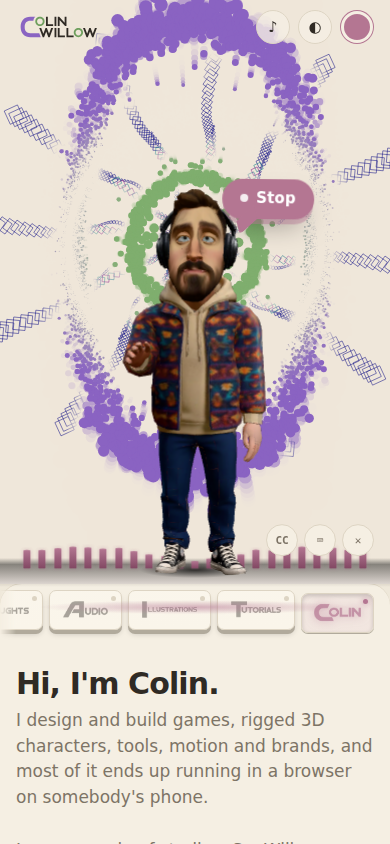
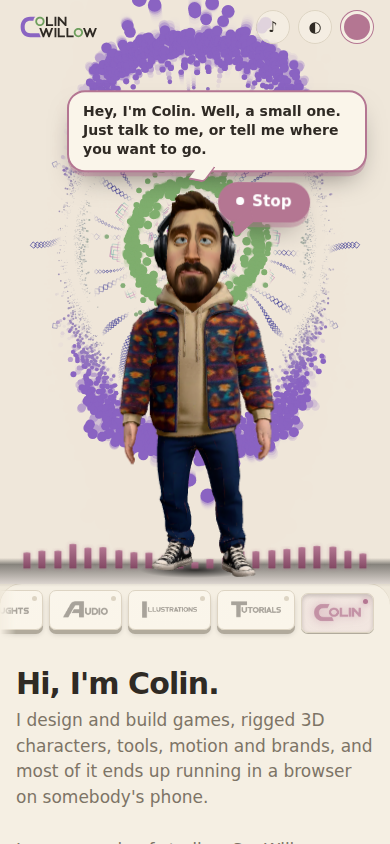
About stage: no CC/keyboard/close row (Stop is the control); his captions are a speech bubble above his head in the Talk bubble's style, your words shown dimmer in the same place
Claude-Session: https://claude.ai/code/session_01McRD2PT414eMdAMdSUCz7Q

diff --git a/site/colin.js b/site/colin.js
@@ -408,9 +408,10 @@ export function createMiniColin({ go, known, items, pageOf }) {
   const log = (who, text) => { const p = document.createElement('p'); p.className = who; p.textContent = text;
     logEl.appendChild(p); while (logEl.children.length > 10) logEl.firstChild.remove(); logEl.scrollTop = 1e6; return p; };
   let capT = 0;
-  const caption = (text, force = false) => {
-    if (!cc && !force) return;
-    cap.textContent = text; cap.hidden = !text; clearTimeout(capT);
+  // on the stage the captions ARE his speech bubble (always on, no CC toggle there); on the strip, CC as before
+  const caption = (text, force = false, you = false) => {
+    if (!cc && !force && !dock.classList.contains('hero')) return;
+    cap.textContent = text; cap.hidden = !text; cap.classList.toggle('you', you); clearTimeout(capT);
     if (text) capT = setTimeout(() => { if (state !== 'speaking') cap.hidden = true; }, 6000);
   };
 
@@ -428,6 +429,14 @@ export function createMiniColin({ go, known, items, pageOf }) {
   (function eqFrame(now) {
     requestAnimationFrame(eqFrame);
     if (state === 'off' || !dock.classList.contains('hero')) { if (eqE) { eqE = 0; eqBars.forEach(b => b.style.transform = 'scaleY(0)'); } return; }
+    // the caption bubble rides above his head (the Stop bubble is beside it), kept on screen
+    if (!cap.hidden) { const h = headScreen(), par = cap.offsetParent;
+      if (h && par) { const pr = par.getBoundingClientRect(), w = cap.offsetWidth, ht = cap.offsetHeight;
+        cap.style.left = Math.max(8, Math.min(pr.width - w - 8, h.x - pr.left - w * 0.42)).toFixed(1) + 'px';
+        let top = h.y - pr.top - h.h * 0.17 - ht;
+        const sb = document.querySelector('.about-talk')?.getBoundingClientRect();   // stack above the Stop bubble, never under it
+        if (sb?.height) top = Math.min(top, sb.top - pr.top - ht - 10);
+        cap.style.top = Math.max(64 - pr.top, top).toFixed(1) + 'px'; } }   // (it may rise above the stage box, to just under the top bar)
     if (state === 'speaking' && now > eqNext) { eqKick(0.45 + Math.random() * 0.55); eqNext = now + 70 + Math.random() * 120; }
     const floor = state === 'listening' ? 0.24 : state === 'thinking' ? 0.16 + 0.1 * Math.sin(now / 180) : 0.1;
     eqE = Math.max(floor, eqE * 0.93);
@@ -522,7 +531,7 @@ export function createMiniColin({ go, known, items, pageOf }) {
     rec.onresult = ev => {
       const was = heard; heard = [...ev.results].map(r => r[0].transcript).join(' ').trim();
       if (heard !== was) eqKick(0.55 + Math.min(0.45, (heard.length - was.length) * 0.06));   // the bars jump as your words come in
-      if (cc) caption('“' + heard + '”');
+      if (cc || dock.classList.contains('hero')) caption('“' + heard + '”', false, true);
       clearTimeout(gapT);
       gapT = setTimeout(() => { const h = heard; if (h) ask(h); }, 750);
     };

diff --git a/site/style.css b/site/style.css
@@ -363,7 +363,13 @@ body.swarm.at-home .shelf-figures { background: linear-gradient(to bottom, trans
 #mini.hero { position: static; width: 100%; height: 100%; pointer-events: none; align-items: center; justify-content: flex-end; }
 #mini.hero .mini-body { width: min(100%, 460px); height: 100%; pointer-events: auto; }
 #mini.hero .mini-tag { bottom: 70px; }
-#mini.hero .mini-cap { position: absolute; top: 12%; left: 50%; transform: translateX(-50%); z-index: 5; pointer-events: auto; }
+/* on the stage his captions are a speech bubble above his head, in the Talk bubble's style (colin.js places it) */
+#mini.hero .mini-cap { position: absolute; top: 0; left: 0; transform: none; z-index: 5; pointer-events: none; max-width: min(300px, 78vw);
+  padding: 10px 14px 11px; border-radius: 18px; border: 2px solid var(--accent); background: var(--card); color: var(--ink);
+  font: 600 14px/1.35 var(--ui); box-shadow: 0 5px 0 -1px color-mix(in srgb, var(--accent) 45%, transparent), 0 14px 28px -12px rgb(0 0 0 / .5); }
+#mini.hero .mini-cap::after { content: ''; position: absolute; left: 42%; bottom: -11px; width: 16px; height: 14px; background: var(--card);
+  border-right: 2px solid var(--accent); border-bottom: 2px solid var(--accent); transform: skewX(-30deg) rotate(10deg); border-bottom-right-radius: 4px; }
+#mini.hero .mini-cap.you { font-weight: 500; font-style: italic; color: var(--muted); border-style: dashed; }
 #mini.hero .mini-panel, #mini.hero .mini-tools { position: absolute; right: var(--gut); bottom: 70px; z-index: 5; pointer-events: auto; }
 #mini.hero .mini-tools { bottom: 18px; }
 .about .about-more { max-width: 60ch; color: var(--muted); font-size: 17px; }
@@ -794,6 +800,8 @@ body.at-home #home-stage { display: flex; justify-content: center; align-items: 
 #mini.hero .mini-body::before { content: ''; position: absolute; inset: 0 0 9.7% 0; pointer-events: auto; }
 #mini.hero .mini-panel, #mini.hero .mini-tools { bottom: calc(9.7% + 64px); }
 #mini.hero .mini-tools { bottom: calc(9.7% + 14px); }
+/* on the stage the Stop bubble is the only control: no CC / keyboard / close row */
+#mini.hero .mini-tools { display: none !important; }
 #mini.hero .mini-tag { bottom: calc(9.7% + 66px); }
 /* the line-up brings its own Colin: the hero one steps aside so there is only ever one of him */
 body.colin-in-line #home-stage { visibility: visible; display: flex; justify-content: center; align-items: flex-end; z-index: 14; }

diff --git a/index.html b/index.html
@@ -26,7 +26,7 @@
 <link rel="preconnect" href="https://fonts.googleapis.com">
 <link rel="preconnect" href="https://fonts.gstatic.com" crossorigin>
 <link href="https://fonts.googleapis.com/css2?family=Inter+Tight:wght@400;500;600;700&family=JetBrains+Mono:wght@400;500&display=swap" rel="stylesheet">
-<link rel="stylesheet" href="site/style.css?v=358d6040">
+<link rel="stylesheet" href="site/style.css?v=c95af599">
 </head>
 <body class="at-home">
   <div id="stage" aria-hidden="false">
@@ -52,6 +52,6 @@
   <main id="view" tabindex="-1"></main>
 
   <noscript><p style="padding:2rem">This site needs JavaScript. The <a href="classic.html">previous portfolio</a> works without it.</p></noscript>
-  <script type="module" src="site/app.js?v=c83663f2"></script>
+  <script type="module" src="site/app.js?v=7e58cde2"></script>
 </body>
 </html>

diff --git a/site/app.js b/site/app.js
@@ -1261,5 +1261,5 @@ const ITEMS = [
   ...WRITING.map(w => ({ title: w.title, path: 'writing/' + w.slug })),
 ];
 if (!q.has('nocolin')) intro.then(() => new Promise(r => setTimeout(r, 900))).then(() =>
-  import('./colin.js?v=8ecf11b1').then(m => { colin = m.createMiniColin({ go, known: KNOWN, items: ITEMS, pageOf: () => '/' + route().join('/') }); colinWait.forEach(f => f(colin)); }))
+  import('./colin.js?v=ac53f991').then(m => { colin = m.createMiniColin({ go, known: KNOWN, items: ITEMS, pageOf: () => '/' + route().join('/') }); colinWait.forEach(f => f(colin)); }))
   .catch(err => console.warn('mini colin unavailable', err));
